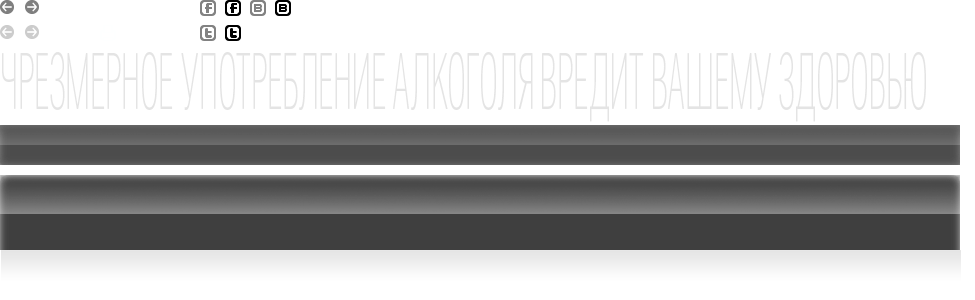
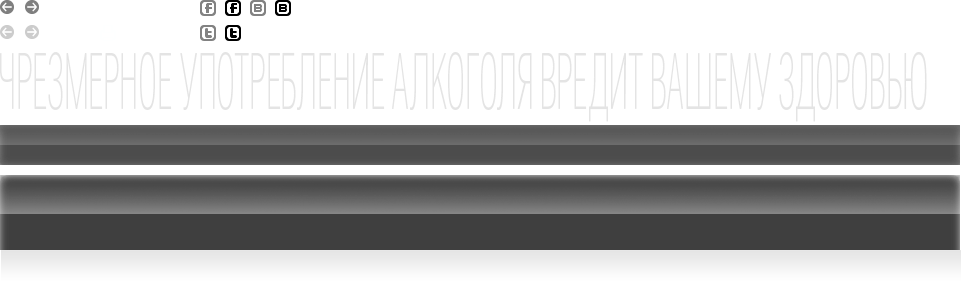
fix AH width in glass theme

Changed region(s): [[0.0, 0.18, 0.1538, 0.36], [0.2154, 0.18, 0.3692, 0.36], [0.4308, 0.24, 0.4615, 0.27]]

diff --git a/htdocs/t/glass/glass.css b/htdocs/t/glass/glass.css
@@ -51,7 +51,7 @@ body { min-width: 985px; position: relative; min-height: 100%; }
 #common-footer .bottom .about-menu .link { padding: 7px; }
 #common-footer .bottom .about-menu .link:first-child { margin-left: -7px; }
 #common-footer .bottom .social { position: absolute; right: -7px; top: 20px; }
-#common-footer .bottom .alcohol-harm { position: absolute; top: 70px; left: 0; width: 960px; height: 60px; background-position: 0 -50px; background-repeat: no-repeat; text-indent: -1000px; overflow: hidden; }
+#common-footer .bottom .alcohol-harm { position: absolute; top: 70px; left: 0; width: 928px; height: 60px; background-position: 0 -50px; background-repeat: no-repeat; text-indent: -1000px; overflow: hidden; }
 
 
 #branded-image-holder { position: absolute; z-index: 0; right: 0; bottom: 0; width: 100%; overflow: hidden; background-position: 0 0; }
